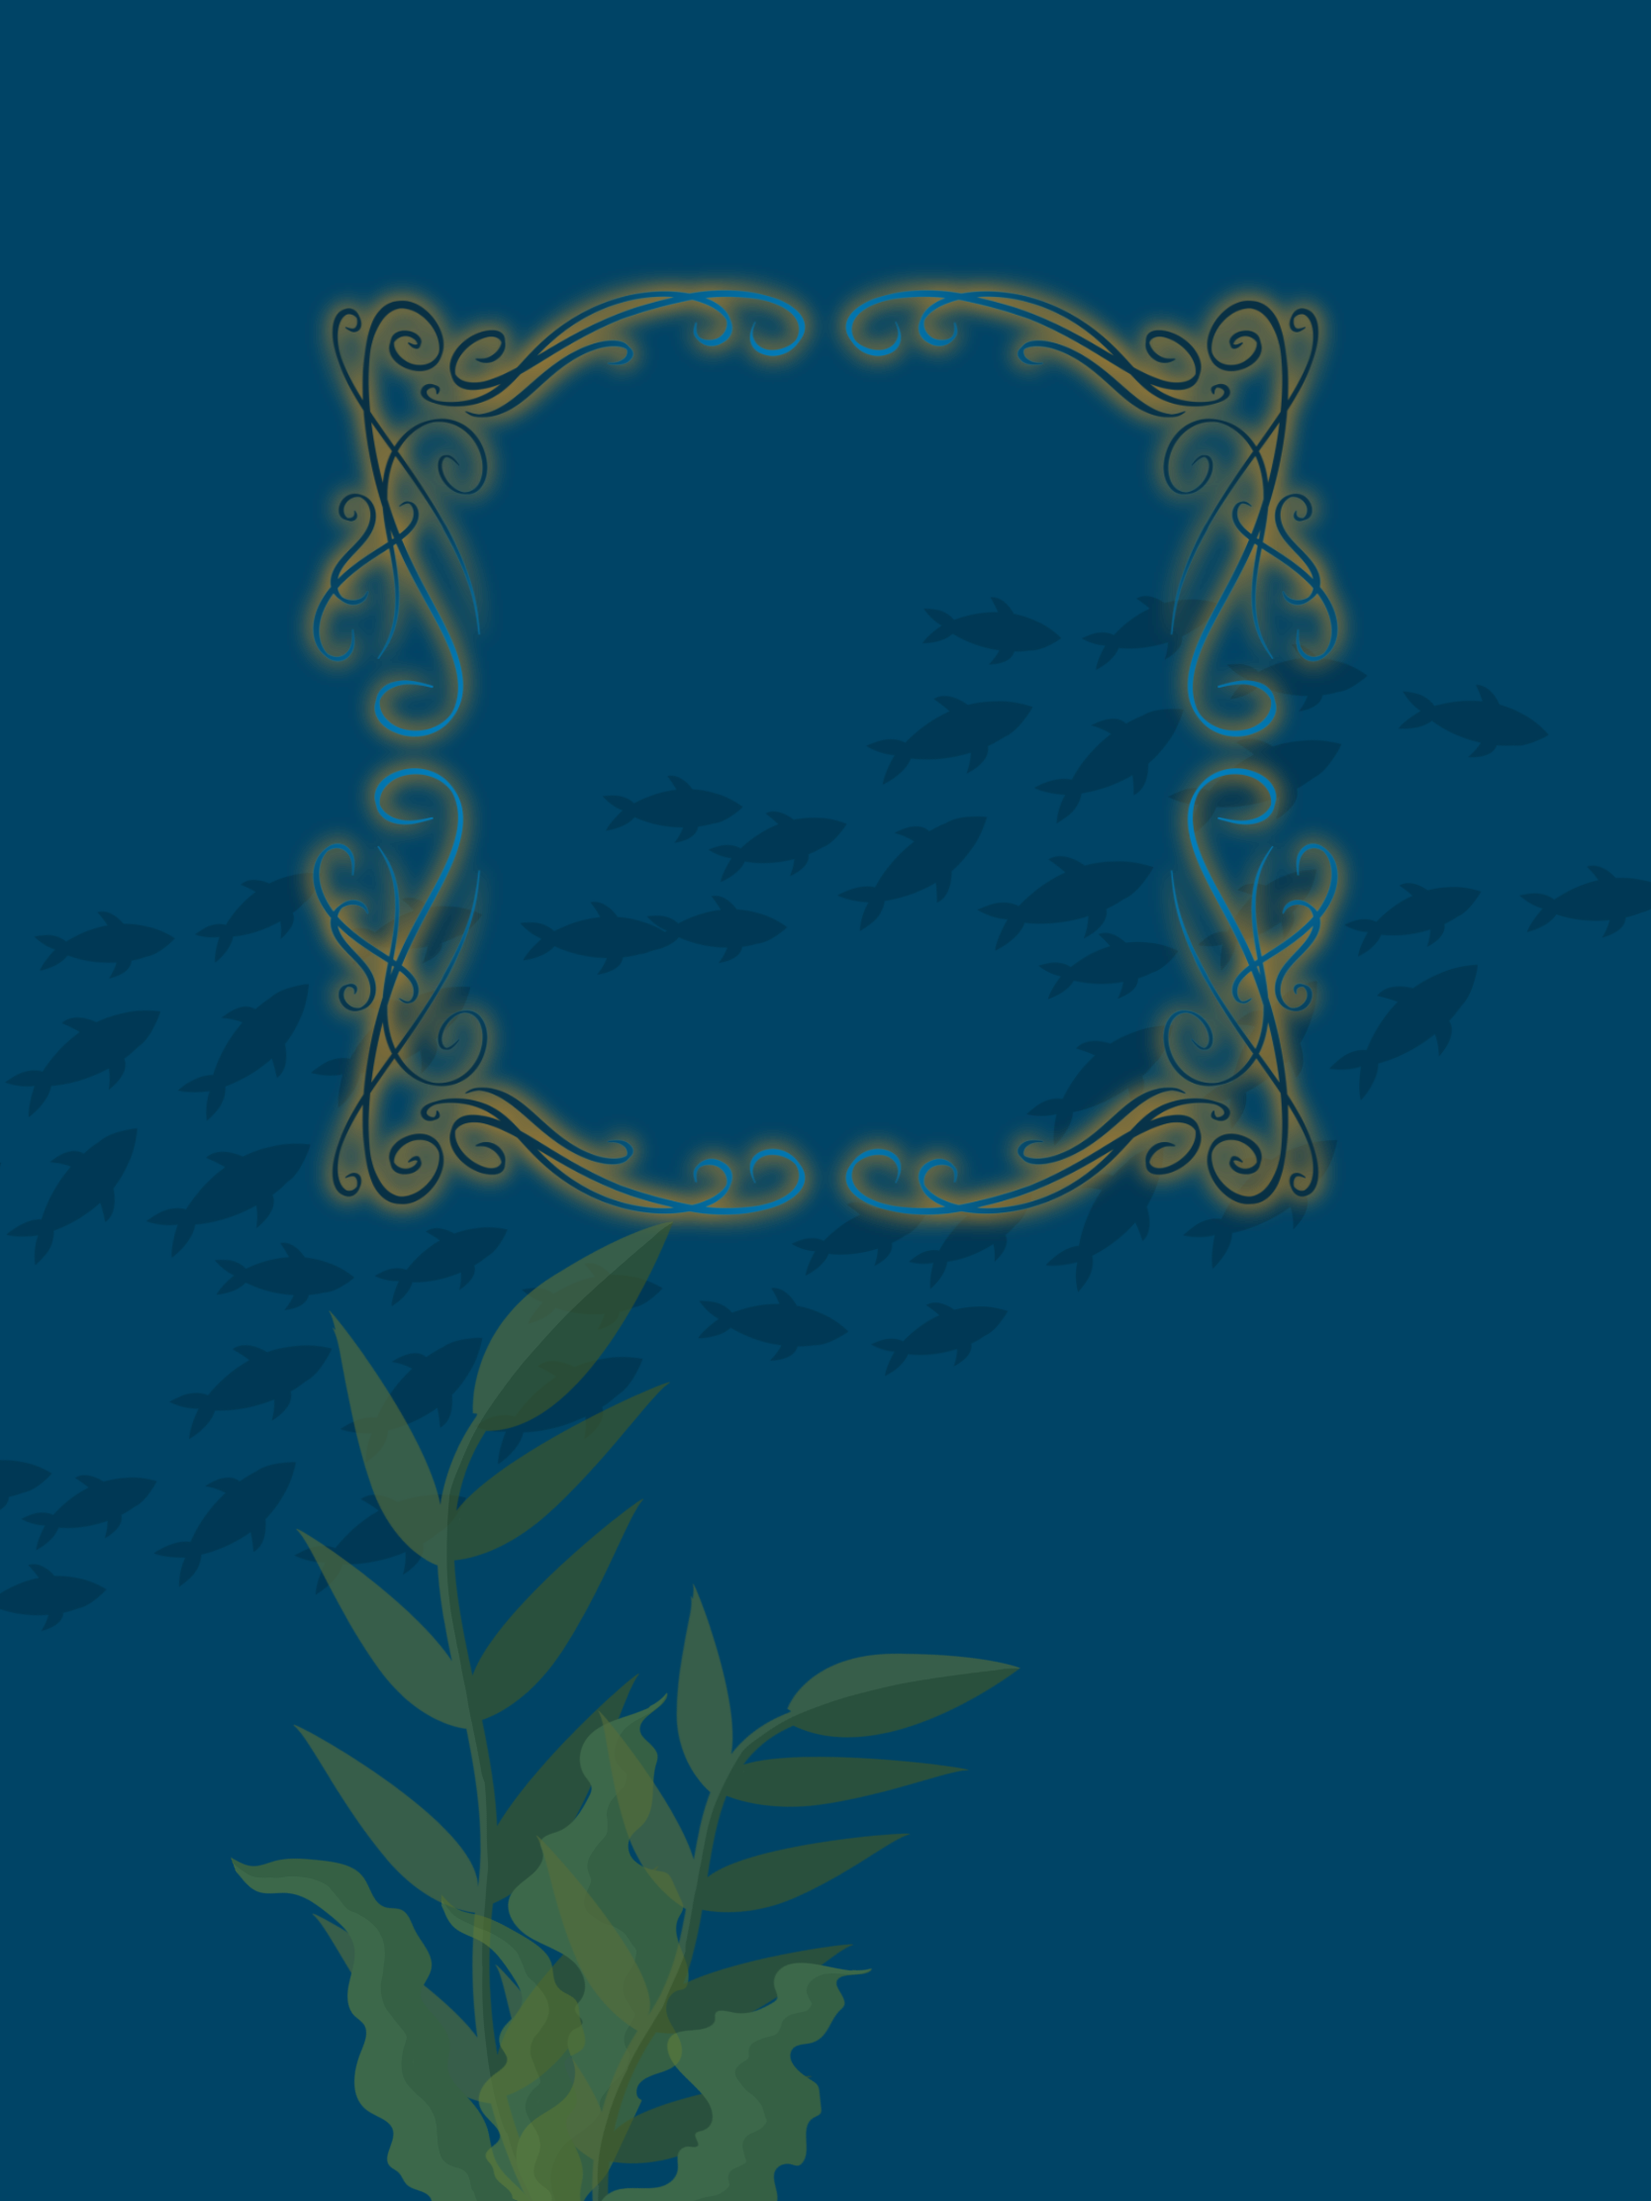
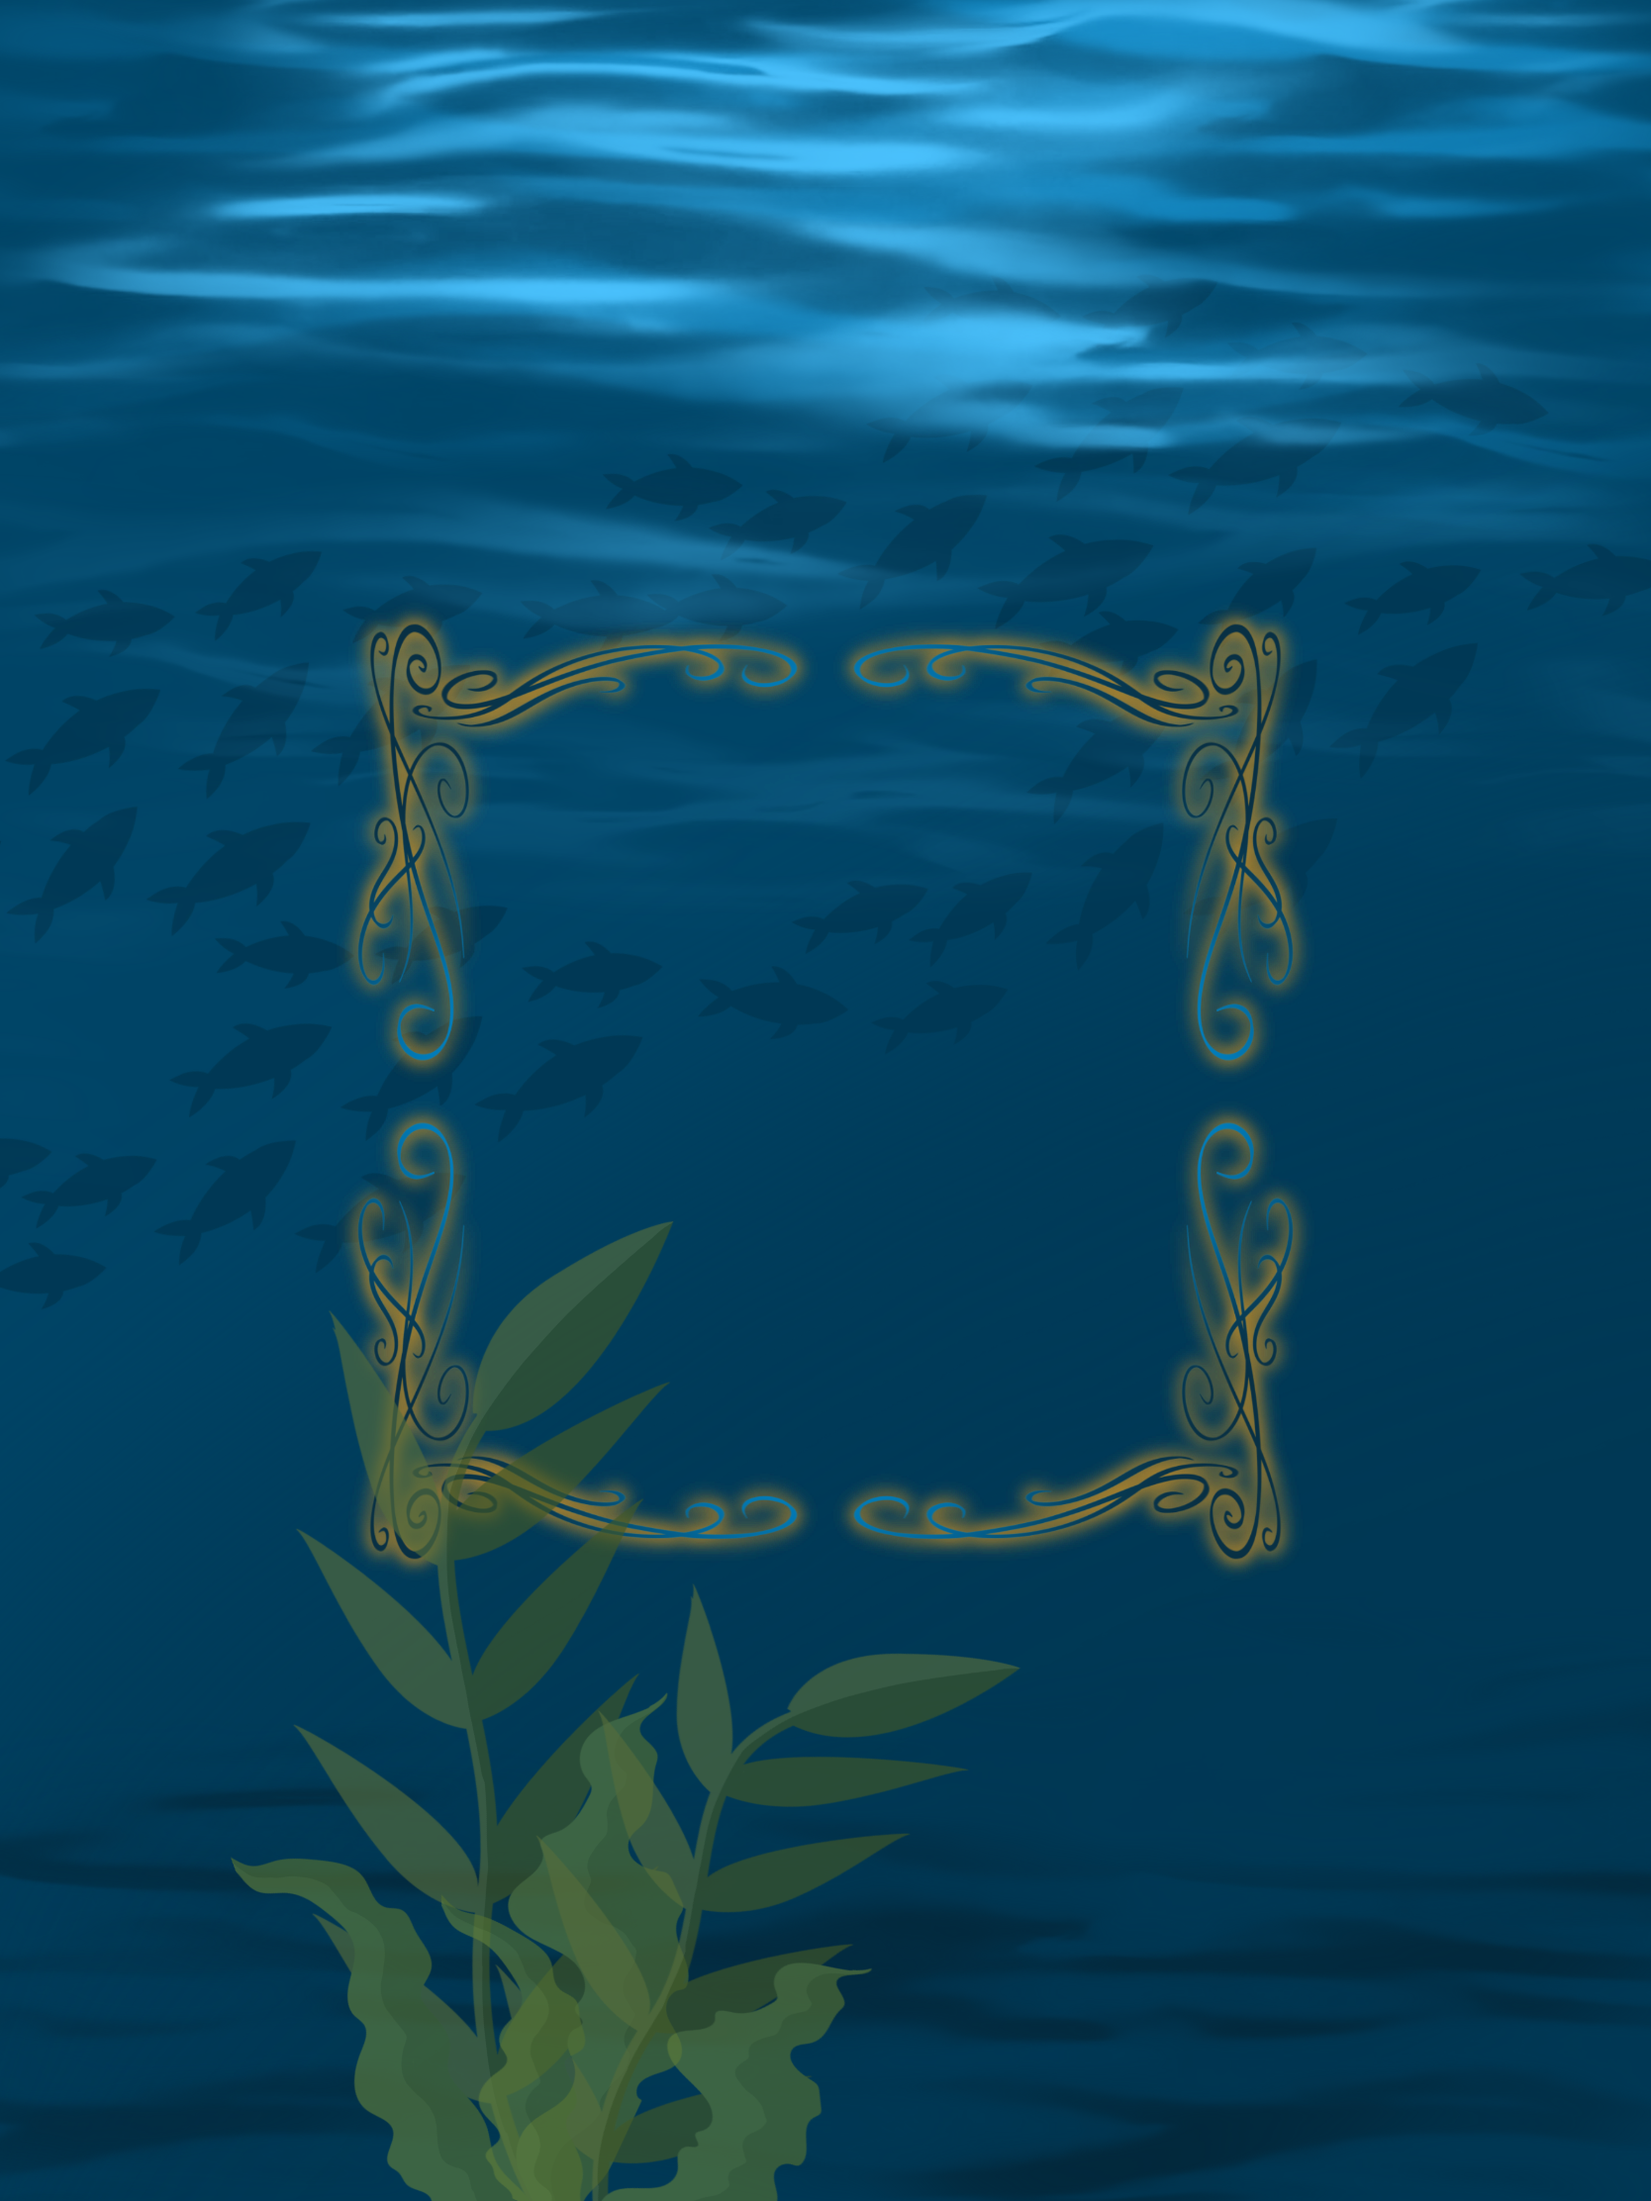
FIXED CODE GAME I PUZLE MAJA ZAJEBISTE TŁO AUAU

diff --git a/lib/pages/CodeUnlockPage.dart b/lib/pages/CodeUnlockPage.dart
@@ -22,10 +22,15 @@ class CodeUnlockScreen extends StatefulWidget {
 class _CodeUnlockScreenState extends State<CodeUnlockScreen> {
   List<int> numbers = [0, 0, 0, 0];
   final List<int> correctCode = [1, 9, 6, 3];
+  bool isUnlocked = false;
 
   void _increment(int index) {
     setState(() {
-      if (numbers[index] < 10) numbers[index]++;
+      if (numbers[index] < 9) {
+        numbers[index]++;
+      } else {
+        numbers[index] = 0;
+      }
     });
   }
 
@@ -45,6 +50,9 @@ class _CodeUnlockScreenState extends State<CodeUnlockScreen> {
 
   void _checkCode(BuildContext context) {
     if (_isCodeCorrect()) {
+      setState(() {
+        isUnlocked = true;
+      });
       showDialog(
         context: context,
         builder: (context) => AlertDialog(
@@ -76,47 +84,52 @@ class _CodeUnlockScreenState extends State<CodeUnlockScreen> {
   @override
   Widget build(BuildContext context) {
     return Scaffold(
-      body: Center(
-        child: Column(
-          mainAxisAlignment: MainAxisAlignment.center,
-          children: [
-            Row(
-              mainAxisAlignment: MainAxisAlignment.center,
-              children: List.generate(4, (index) {
-                return Column(
-                  children: [
-                    IconButton(
-                      icon: Icon(Icons.arrow_drop_up, size: 40),
-                      onPressed: () => _increment(index),
-                    ),
-                    Container(
-                      width: 60,
-                      height: 60,
-                      alignment: Alignment.center,
-                      decoration: BoxDecoration(
-                        border: Border.all(width: 2),
-                        borderRadius: BorderRadius.circular(8),
-                      ),
-                      child: Text(
-                        numbers[index].toString(),
-                        style: TextStyle(fontSize: 24, fontWeight: FontWeight.bold),
-                      ),
-                    ),
-                    IconButton(
-                      icon: Icon(Icons.arrow_drop_down, size: 40),
-                      onPressed: () => _decrement(index),
-                    ),
-                  ],
-                );
-              }),
+      body: Stack(
+        fit: StackFit.expand,
+        children: [
+          Image.asset(
+            isUnlocked ? "images/done_code_tlo.png" : "images/code_tlo.png",
+            fit: BoxFit.cover,
+          ),
+          Center(
+            child: Column(
+              children: [
+                SizedBox(height: 145),
+                Row(
+                  mainAxisAlignment: MainAxisAlignment.center,
+                  children: List.generate(4, (index) {
+                    return Column(
+                      children: [
+                        IconButton(
+                          icon: Image.asset("images/arrow_up.png", color: Color(0xFFAFCBFF), width: 40, height: 50),
+                          onPressed: () => _increment(index),
+                        ),
+                        Container(
+                          width: 45,
+                          height: 60,
+                          color: Color(0xFFAFCBFF),
+                          alignment: Alignment.center,
+                          child: Text(
+                            numbers[index].toString(),
+                            style: TextStyle(fontSize: 24, fontWeight: FontWeight.bold),
+                          ),
+                        ),
+                        IconButton(
+                          icon: Image.asset("images/arrow_down.png", color: Color(0xFFAFCBFF), width: 40, height: 50),
+                          onPressed: () => _decrement(index),
+                        ),
+                      ],
+                    );
+                  }),
+                ),
+                ElevatedButton(
+                  onPressed: () => _checkCode(context),
+                  child: Text("Sprawdź kod"),
+                ),
+              ],
             ),
-            SizedBox(height: 20),
-            ElevatedButton(
-              onPressed: () => _checkCode(context),
-              child: Text("Sprawdź kod"),
-            ),
-          ],
-        ),
+          ),
+        ],
       ),
     );
   }

diff --git a/lib/pages/JigsawPuzzlePage.dart b/lib/pages/JigsawPuzzlePage.dart
@@ -147,7 +147,7 @@ class _PuzzleScreenState extends State<PuzzleScreen> {
           // Zawartość ekranu
           Column(
             children: [
-              SizedBox(height: 40),
+              SizedBox(height: 180),
               Text(
                 "Ułóż Puzle!",
                 style: TextStyle(fontSize: 40, fontWeight: FontWeight.bold, color: Color(0xFFEFA00B)),
